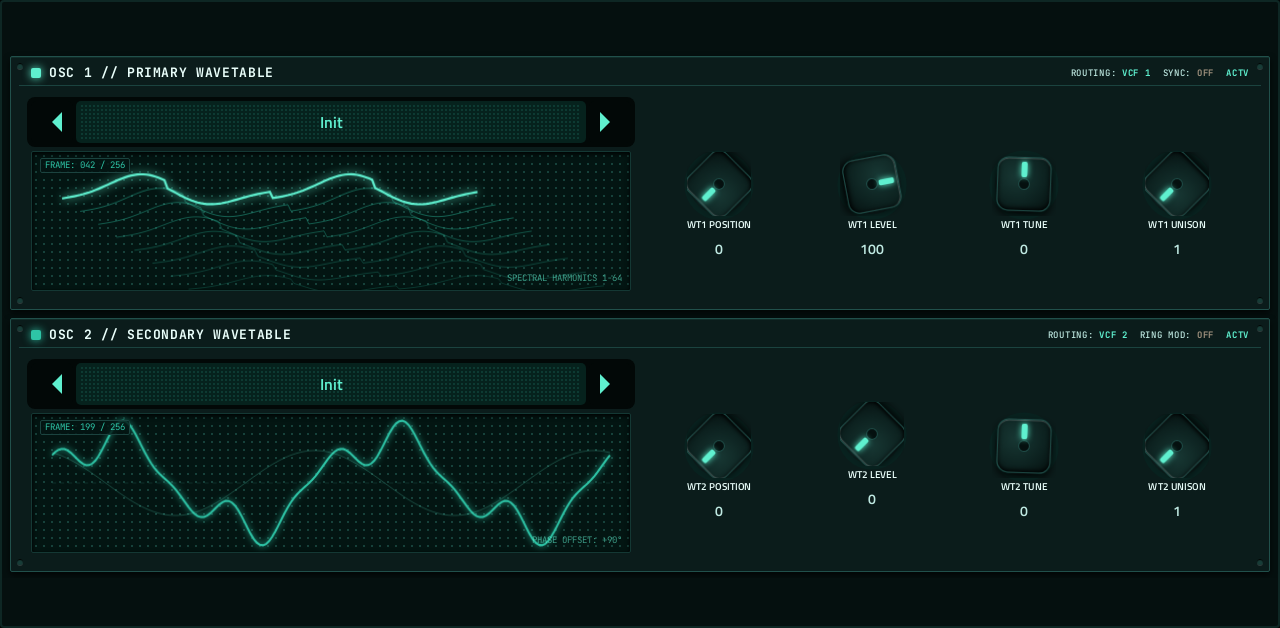
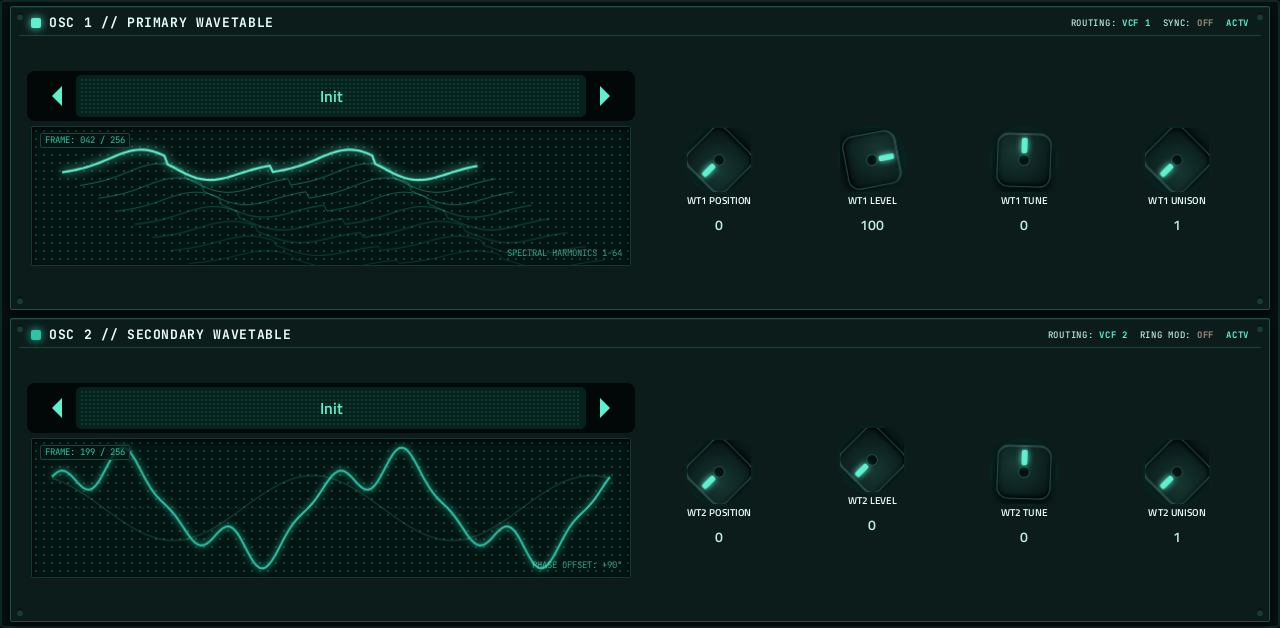
30 screens fill the plugin area (no empty bands above and below)
Rebuilt with the converter's `fill`: 303 (Open303), Aphex, Denis, Elements, Grids, GrooveBank, Hank,
Helm, Hera, Hush One, LibPO32, Marbles (SETUP only), MazeLite, MIDI Player, MonkSynth, Moog
(RaffoSynth: its frame centred), Mr Drums, Mr Hyde, Noisemaker, OB-Xd, PixelWalkers, Plaits, Rampage
(Dual Slope), Rings, Rings FX, SuperArp, Tablor, Verglas, Warps, Wurl. Same controls, parameters and
Q-Link order; only positions moved. Moog's and Noisemaker's hand edits (FILTER switch, BANK, the
shorter scope, design QA moves) carried over. Helm's switch captions now show the parameters' names.

Builds PASSED (offline test), check_skin OK for all 30, screenshots refreshed from the engine's
state. The .so files are the committed ones (only the screens changed). Not on a device yet.

diff --git a/README.md b/README.md
@@ -94,6 +94,9 @@ Use one or the other for this plugin: both register the same plugin (same uid), 
 - Diff: `upstream-changes.diff`.
 - `params.base.json` comes from the module's `chain_params` (what the engine actually takes, saved as `chain_params.engine.json`), not its menu tree.
 - New touchscreen page from its Google Stitch design (`design/`): the design's artwork as the background, its own knob art, live names and values, and controls the design left out added in its style (see RESKINNING.md).
+- **Full-height screen (2026-10-18)**: the panels fill MPC's 1280 × 628 plugin area. The Stitch conversion used to
+  centre the design at the height it had under its own header and footer (MPC draws its own), which left an empty
+  band above and below.
 
 ## Files
 
